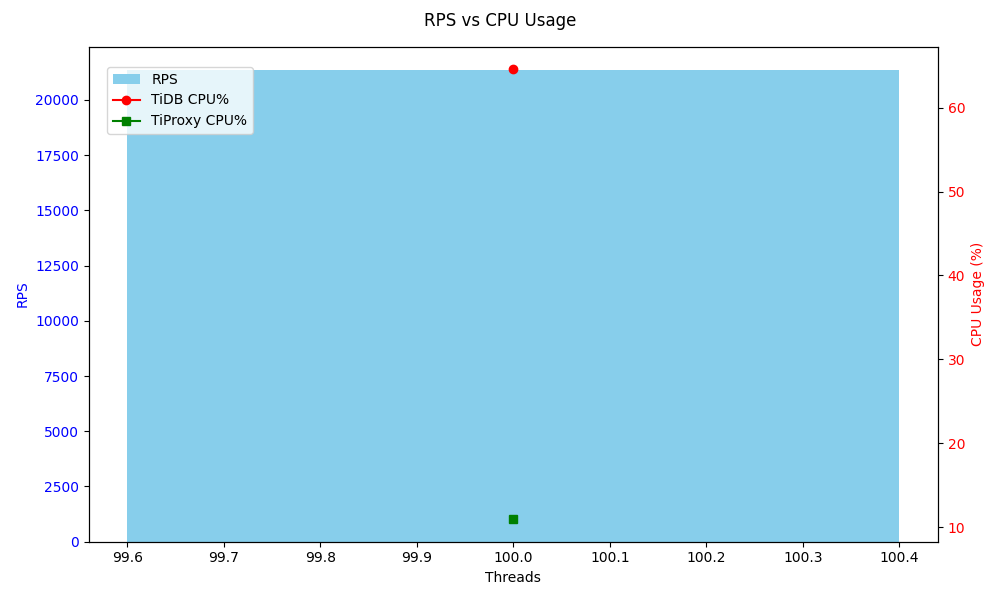
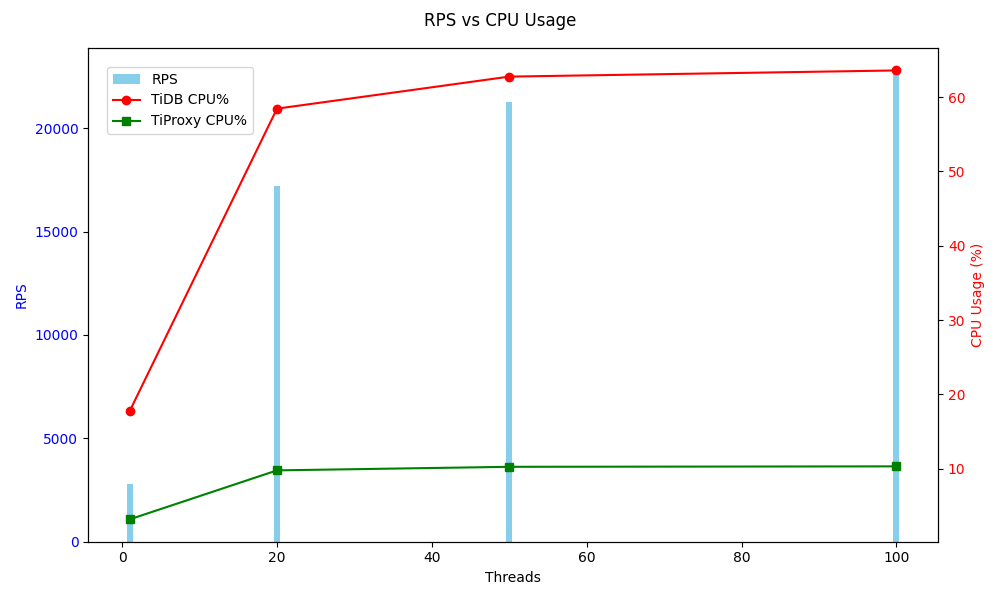
update

diff --git a/tidb/benchmark_#2/plot_rps_bar.py b/tidb/benchmark_#2/plot_rps_bar.py
@@ -24,26 +24,48 @@ if missing:
 	print(f"[warn] Missing columns: {missing} (plotting available ones)")
 
 fig, ax1 = plt.subplots(figsize=(10,6))
-ax1.bar(df["Threads"], df["RPS"], color="skyblue", label="RPS")
+threads = df["Threads"]
+rps = df["RPS"]
+bars = ax1.bar([str(t) for t in threads], rps, color="#1f77b4", alpha=0.78, label="RPS")
 ax1.set_xlabel("Threads")
-ax1.set_ylabel("RPS", color="blue")
-ax1.tick_params(axis="y", labelcolor="blue")
+ax1.set_ylabel("Requests / sec", color="#003A70")
+ax1.tick_params(axis="y", labelcolor="#003A70")
+
+# Baseline: choose first thread >= min threshold (e.g.  threads sorted, commonly 1 or 100). Prefer 100 if present
+baseline_val = None
+if 100 in set(threads):
+	baseline_val = float(df.loc[df["Threads"]==100, "RPS"].iloc[0])
+elif len(rps):
+	baseline_val = float(rps.iloc[0])
+if baseline_val:
+	ax1.axhline(baseline_val, color="#666", linestyle="--", linewidth=1, label=("100-thread baseline" if 100 in set(threads) else "baseline"))
+
+# Annotate each bar with RPS and delta vs baseline
+for b, t, val in zip(bars, threads, rps):
+	if baseline_val and baseline_val > 0:
+		delta_pct = (val - baseline_val) / baseline_val * 100.0
+		delta_str = f"{delta_pct:+.1f}%" if (t != 100 or baseline_val != val) else "+0.0%"
+		color = "#d62728" if delta_pct > 0 else ("#2ca02c" if delta_pct < 0 else "#000000")
+		ax1.text(b.get_x()+b.get_width()/2, b.get_height()*1.01, f"{val:.0f}\n{delta_str}",
+				 ha='center', va='bottom', fontsize=8, color=color, linespacing=0.9)
+	else:
+		ax1.text(b.get_x()+b.get_width()/2, b.get_height()*1.01, f"{val:.0f}", ha='center', va='bottom', fontsize=8)
 
 lines, labels = ax1.get_legend_handles_labels()
 
 ax2 = ax1.twinx()
 if "TidbCPU%" in df.columns:
-	l1 = ax2.plot(df["Threads"], df["TidbCPU%"], color="red", marker="o", label="TiDB CPU%")
+	l1 = ax2.plot([str(t) for t in threads], df["TidbCPU%"], color="#d62728", marker="o", linewidth=2, label="TiDB CPU%")
 	lines += l1; labels += ["TiDB CPU%"]
 if "TiProxyCPU%" in df.columns:
-	l2 = ax2.plot(df["Threads"], df["TiProxyCPU%"], color="green", marker="s", label="TiProxy CPU%")
+	l2 = ax2.plot([str(t) for t in threads], df["TiProxyCPU%"], color="#2ca02c", marker="s", linewidth=2, label="TiProxy CPU%")
 	lines += l2; labels += ["TiProxy CPU%"]
-ax2.set_ylabel("CPU Usage (%)", color="red")
-ax2.tick_params(axis="y", labelcolor="red")
+ax2.set_ylabel("CPU %", color="#d62728")
+ax2.tick_params(axis="y", labelcolor="#d62728")
 
-fig.suptitle("RPS vs CPU Usage")
+fig.suptitle("RPS & CPU Usage Scaling")
 if lines:
-	fig.legend(lines, labels, loc="upper left", bbox_to_anchor=(0.1,0.9))
+	fig.legend(lines, labels, loc="upper left", bbox_to_anchor=(0.08,0.92))
 
 plt.tight_layout()
 plt.savefig(args.out)
